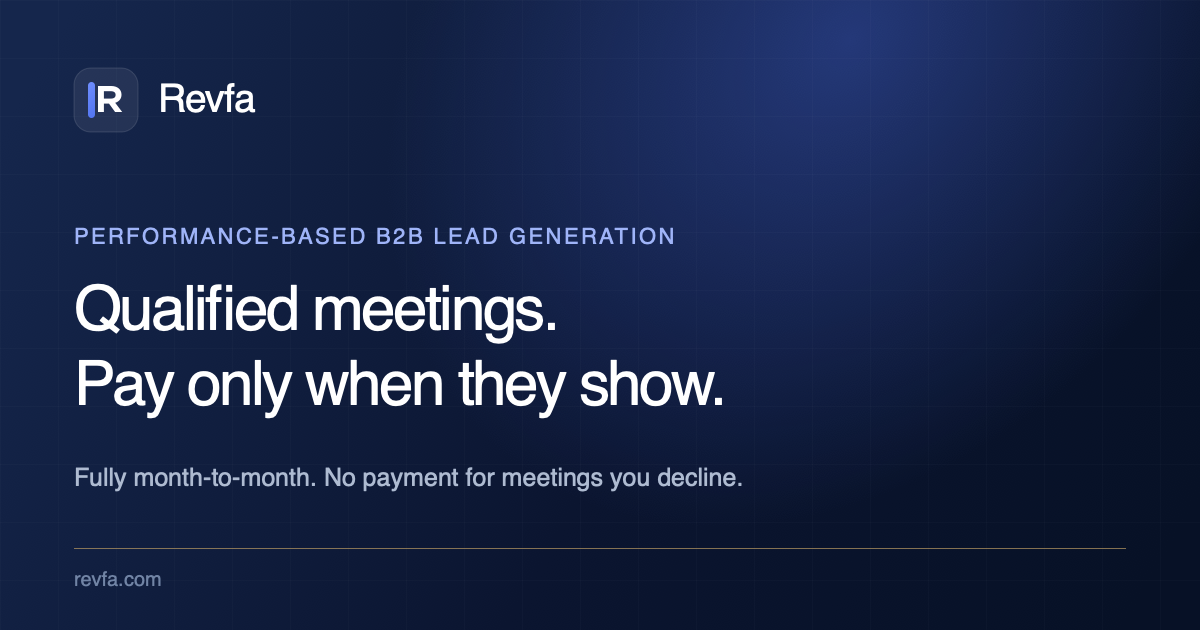
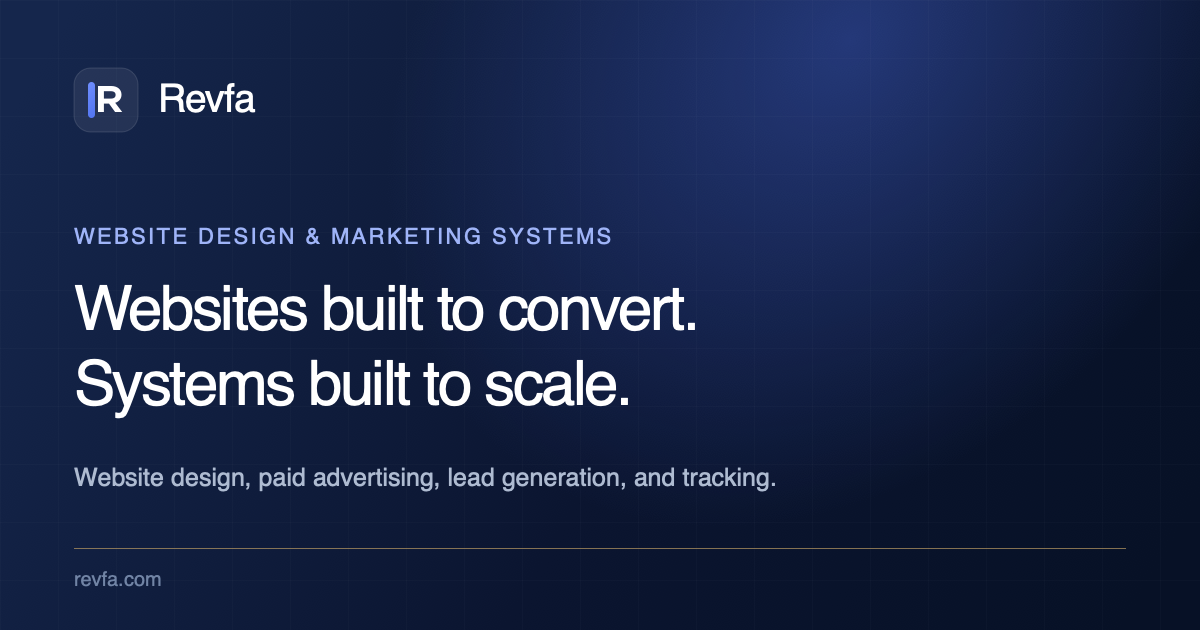
Add files via upload

diff --git a/index.html b/index.html
@@ -4,8 +4,8 @@
     <meta charset="UTF-8">
     <meta name="viewport" content="width=device-width, initial-scale=1.0">
 
-    <title>Revfa | Performance-Based B2B Lead Generation</title>
-    <meta name="description" content="Revfa books qualified B2B meetings on a performance basis. You only pay for meetings that show, with no long-term contract and full month-to-month flexibility.">
+    <title>Revfa | Website Design &amp; Marketing Systems</title>
+    <meta name="description" content="Revfa designs conversion-focused websites and marketing systems that combine paid advertising, lead generation, conversion funnels, follow-up, and tracking.">
     <meta name="author" content="Revfa">
     <meta name="robots" content="index, follow, max-image-preview:large, max-snippet:-1, max-video-preview:-1">
     <meta name="googlebot" content="index, follow, max-image-preview:large, max-snippet:-1, max-video-preview:-1">
@@ -22,8 +22,8 @@
     <link rel="manifest" href="/site.webmanifest">
 
     <!-- Open Graph -->
-    <meta property="og:title" content="Revfa | Performance-Based B2B Lead Generation">
-    <meta property="og:description" content="Only pay for qualified B2B meetings that show. No long-term contract, with full month-to-month flexibility.">
+    <meta property="og:title" content="Revfa | Website Design &amp; Marketing Systems">
+    <meta property="og:description" content="Conversion-focused websites supported by paid advertising, lead generation, funnels, follow-up, and performance tracking.">
     <meta property="og:type" content="website">
     <meta property="og:url" content="https://revfa.com/">
     <meta property="og:site_name" content="Revfa">
@@ -33,14 +33,14 @@
     <meta property="og:image:type" content="image/png">
     <meta property="og:image:width" content="1200">
     <meta property="og:image:height" content="630">
-    <meta property="og:image:alt" content="Revfa performance-based B2B lead generation">
+    <meta property="og:image:alt" content="Revfa website design, paid advertising, and lead generation systems">
 
     <!-- X / Twitter -->
     <meta name="twitter:card" content="summary_large_image">
-    <meta name="twitter:title" content="Revfa | Performance-Based B2B Lead Generation">
-    <meta name="twitter:description" content="Only pay for qualified B2B meetings that show. No long-term contract, with full month-to-month flexibility.">
+    <meta name="twitter:title" content="Revfa | Website Design &amp; Marketing Systems">
+    <meta name="twitter:description" content="Conversion-focused websites supported by paid advertising, lead generation, funnels, follow-up, and performance tracking.">
     <meta name="twitter:image" content="https://revfa.com/og-image.png">
-    <meta name="twitter:image:alt" content="Revfa performance-based B2B lead generation">
+    <meta name="twitter:image:alt" content="Revfa website design, paid advertising, and lead generation systems">
 
     <!-- Schema.org structured data -->
     <script type="application/ld+json">
@@ -72,7 +72,7 @@
           "@id": "https://revfa.com/#website",
           "url": "https://revfa.com/",
           "name": "Revfa",
-          "description": "Performance-based B2B lead generation for qualified, shown meetings.",
+          "description": "Website design and marketing systems spanning paid advertising, lead generation, funnels, and performance tracking.",
           "publisher": { "@id": "https://revfa.com/#organization" },
           "inLanguage": "en"
         },
@@ -80,8 +80,8 @@
           "@type": "WebPage",
           "@id": "https://revfa.com/#webpage",
           "url": "https://revfa.com/",
-          "name": "Revfa | Performance-Based B2B Lead Generation",
-          "description": "Revfa books qualified B2B meetings on a performance basis. You only pay for meetings that show.",
+          "name": "Revfa | Website Design & Marketing Systems",
+          "description": "Revfa designs conversion-focused websites and marketing systems that combine paid advertising, lead generation, conversion funnels, follow-up, and tracking.",
           "isPartOf": { "@id": "https://revfa.com/#website" },
           "about": { "@id": "https://revfa.com/#service" },
           "primaryImageOfPage": {
@@ -95,14 +95,14 @@
         {
           "@type": "Service",
           "@id": "https://revfa.com/#service",
-          "name": "Performance-Based B2B Lead Generation",
-          "serviceType": "B2B lead generation and appointment setting",
-          "description": "Qualified B2B meetings delivered on a performance basis, with payment tied to meetings that show.",
+          "name": "Website Design & Marketing Systems",
+          "serviceType": "Website design, paid advertising, lead generation, conversion funnels, and marketing strategy",
+          "description": "Conversion-focused websites paired with paid advertising, lead generation campaigns, landing pages, follow-up systems, analytics, and ongoing optimization.",
           "provider": { "@id": "https://revfa.com/#organization" },
           "areaServed": "Worldwide",
           "audience": {
             "@type": "BusinessAudience",
-            "audienceType": "B2B companies over $250K in annual revenue"
+            "audienceType": "Growth-focused businesses seeking website design, paid advertising, and lead generation"
           },
           "offers": {
             "@type": "Offer",
@@ -116,50 +116,50 @@
           "mainEntity": [
             {
               "@type": "Question",
-              "name": "How do you define a qualified meeting?",
+              "name": "What does Revfa build?",
               "acceptedAnswer": {
                 "@type": "Answer",
-                "text": "A meeting where the attendee matches your pre-agreed ICP criteria, including title, company size, and industry, and attends the scheduled call. Qualification is defined together before launch."
+                "text": "Revfa creates conversion-focused websites and the marketing systems that drive people to them. That can include positioning, design, development, paid advertising, lead generation campaigns, landing pages, follow-up, analytics, and optimization."
               }
             },
             {
               "@type": "Question",
-              "name": "What if the leads do not match my criteria?",
+              "name": "What is a marketing system?",
               "acceptedAnswer": {
                 "@type": "Answer",
-                "text": "You do not pay. Qualification criteria are agreed upon upfront, and there is no charge if a meeting does not meet those standards."
+                "text": "It is a coordinated approach to attracting and converting customers. Revfa connects paid advertising, lead generation, landing pages, forms, follow-up, and tracking so every part supports the same growth objective."
               }
             },
             {
               "@type": "Question",
-              "name": "How quickly can I expect results?",
+              "name": "How long does a project take?",
               "acceptedAnswer": {
                 "@type": "Answer",
-                "text": "Most clients see their first qualified meetings within 2 to 3 weeks of launch."
+                "text": "Timing depends on the site's size, content readiness, campaign scope, integrations, and feedback cycles. After discovery, Revfa defines the milestones and launch plan before work begins."
               }
             },
             {
               "@type": "Question",
-              "name": "What industries do you work with?",
+              "name": "Which platforms do you work with?",
               "acceptedAnswer": {
                 "@type": "Answer",
-                "text": "Revfa works with B2B companies offering high-ticket services or software, typically with deal sizes of $5K or more."
+                "text": "Revfa recommends the website platform, advertising channels, and marketing tools that best fit your goals, audience, team, and budget rather than forcing every business into the same stack."
               }
             },
             {
               "@type": "Question",
-              "name": "Is there a long-term contract?",
+              "name": "Do you include SEO and analytics?",
               "acceptedAnswer": {
                 "@type": "Answer",
-                "text": "No. Engagements are month-to-month, with no long-term contractual obligation."
+                "text": "Projects can include technical and on-page SEO foundations, metadata, structured data, analytics, campaign tracking, and conversion measurement. Ongoing SEO or campaign management can be scoped separately."
               }
             },
             {
               "@type": "Question",
-              "name": "What makes Revfa different?",
+              "name": "What happens after launch?",
               "acceptedAnswer": {
                 "@type": "Answer",
-                "text": "Revfa only profits when qualified meetings happen, aligning its incentives with the client's results."
+                "text": "Revfa can continue managing paid advertising, lead generation, testing, reporting, website optimization, and system improvements based on the ongoing scope your business needs."
               }
             }
           ]
@@ -1892,7 +1892,7 @@
     <nav class="navbar" aria-label="Main navigation">
         <div class="container nav-container">
             <a href="#" class="logo" aria-label="Revfa Home">Revfa</a>
-            <a href="#book-call" class="nav-cta">Book a Discovery Call</a>
+            <a href="#book-call" class="nav-cta">Plan Your Website</a>
         </div>
     </nav>
 
@@ -1900,11 +1900,11 @@
     <header class="hero">
         <div class="hero-bg"></div>
         <div class="container">
-            <div class="hero-badge">For B2B Companies Over $250K in Annual Revenue</div>
-            <h1>Only Pay Per Qualified, Shown B2B Meeting</h1>
-            <p class="hero-h2">100% Performance-Based Lead Generation</p>
-            <p class="hero-sub">If you decide not to take a meeting for any reason, you don't pay. No retainers, no commitments. Fully month-to-month.</p>
-            <a href="#book-call" class="btn btn-primary">Book a Discovery Call</a>
+            <div class="hero-badge">Website Design, Paid Advertising &amp; Lead Generation</div>
+            <h1>Websites Built to Convert. Marketing Built to Grow.</h1>
+            <p class="hero-h2">Website Design &amp; Marketing Systems</p>
+            <p class="hero-sub">We combine conversion-focused websites with paid advertising, lead generation, funnels, follow-up, and tracking to create a complete system for growth.</p>
+            <a href="#book-call" class="btn btn-primary">Plan Your Growth System</a>
         </div>
     </header>
 
@@ -1913,22 +1913,22 @@
     <!-- Problem Section -->
     <section class="section problem-section" aria-labelledby="problem-heading">
         <div class="container">
-            <h2 id="problem-heading">The Problem with Traditional Lead Gen Agencies</h2>
+            <h2 id="problem-heading">Your Website Should Do More Than Look Good</h2>
             <div class="problem-grid">
                 <div class="problem-card">
-                    <div class="problem-icon">$</div>
-                    <h3>Upfront Retainers, No Guarantees</h3>
-                    <p>Most agencies charge $3K to $10K per month before delivering a single meeting. You carry all the risk.</p>
+                    <div class="problem-icon">01</div>
+                    <h3>Design Without Direction</h3>
+                    <p>A polished site still underperforms when the offer is unclear, the journey is confusing, and every page competes for attention instead of guiding action.</p>
                 </div>
                 <div class="problem-card">
-                    <div class="problem-icon">?</div>
-                    <h3>Low-Quality Pipeline</h3>
-                    <p>Leads that don't match your ICP, prospects who never respond, and meetings that never convert.</p>
+                    <div class="problem-icon">02</div>
+                    <h3>Traffic Without a System</h3>
+                    <p>Paid ads and lead generation waste budget when campaigns, landing pages, follow-up, and sales activity are not working toward the same objective.</p>
                 </div>
                 <div class="problem-card">
-                    <div class="problem-icon">0</div>
-                    <h3>No Accountability</h3>
-                    <p>When results fall short, the blame shifts to your offer or your market. The retainer stays the same.</p>
+                    <div class="problem-icon">03</div>
+                    <h3>Growth Without Visibility</h3>
+                    <p>Without clean campaign tracking and meaningful conversion points, it is difficult to know what is working, where prospects drop off, or what to improve next.</p>
                 </div>
             </div>
         </div>
@@ -1936,53 +1936,53 @@
 
     <hr class="section-divider">
 
-    <!-- Risk Reversal Section -->
+    <!-- Connected System Section -->
     <section class="section risk-section" aria-labelledby="risk-heading">
         <div class="container">
             <div class="risk-box">
-                <h2 id="risk-heading">Zero-Risk Guarantee</h2>
-                <p class="risk-lead">We structured this model to eliminate risk on your side entirely.</p>
+                <h2 id="risk-heading">One Connected Growth System</h2>
+                <p class="risk-lead">Revfa connects the website, the campaigns, and the conversion process around one clear growth objective.</p>
                 <ul class="risk-list">
-                    <li><strong>Month-to-month engagement.</strong> No long-term contracts. Cancel anytime.</li>
-                    <li><strong>No payment for no-shows.</strong> Prospect doesn't attend? You owe nothing.</li>
-                    <li><strong>No payment for unqualified leads.</strong> If they don't match your ICP criteria, it doesn't count.</li>
-                    <li><strong>Full visibility.</strong> See every message, every reply, and every booked meeting in real time.</li>
+                    <li><strong>Conversion-first website.</strong> Clear positioning, intentional user journeys, responsive design, and functional development built around action.</li>
+                    <li><strong>Paid advertising.</strong> Campaign strategy, audience targeting, creative direction, and landing pages designed to turn ad spend into qualified opportunities.</li>
+                    <li><strong>Lead generation.</strong> Focused offers, capture flows, follow-up, and sales handoffs that move prospects from first click to conversation.</li>
+                    <li><strong>Tracking and optimization.</strong> Analytics, campaign measurement, and ongoing testing that show what works and where to improve.</li>
                 </ul>
-                <p class="risk-bottom">If we don't deliver, we don't get paid. It's that straightforward.</p>
+                <p class="risk-bottom">Not just a website. A complete marketing system designed to attract, capture, and convert demand.</p>
             </div>
         </div>
     </section>
 
     <hr class="section-divider">
 
-    <!-- Objection Handling Section -->
+    <!-- FAQ Section -->
     <section class="section faq-section" aria-labelledby="faq-heading">
         <div class="container">
             <h2 id="faq-heading">Questions We Hear Often</h2>
             <div class="faq-grid">
                 <div class="faq-item">
-                    <h3>How do you define a "qualified meeting"?</h3>
-                    <p>A meeting where the attendee matches your pre-agreed ICP criteria (title, company size, industry) and actually shows up to the scheduled call. We define qualification together before launch.</p>
+                    <h3>What does Revfa build?</h3>
+                    <p>Revfa creates conversion-focused websites and the marketing systems that drive people to them. That can include positioning, design, development, paid advertising, lead generation campaigns, landing pages, follow-up, analytics, and optimization.</p>
                 </div>
                 <div class="faq-item">
-                    <h3>What if the leads don't match my criteria?</h3>
-                    <p>You don't pay. Qualification criteria are agreed upon upfront. If a meeting doesn't meet those standards, there is no charge.</p>
+                    <h3>What is a marketing system?</h3>
+                    <p>It is a coordinated approach to attracting and converting customers. Revfa connects paid advertising, lead generation, landing pages, forms, follow-up, and tracking so every part supports the same growth objective.</p>
                 </div>
                 <div class="faq-item">
-                    <h3>How quickly can I expect results?</h3>
-                    <p>Most clients see their first qualified meetings within 2 to 3 weeks of launch. Because our revenue depends on results, we move quickly.</p>
+                    <h3>How long does a project take?</h3>
+                    <p>Timing depends on the site's size, content readiness, campaign scope, integrations, and feedback cycles. After discovery, Revfa defines the milestones and launch plan before work begins.</p>
                 </div>
                 <div class="faq-item">
-                    <h3>What industries do you work with?</h3>
-                    <p>B2B companies with high-ticket services or software ($5K+ deal sizes). If you sell to other businesses, we can likely help.</p>
+                    <h3>Which platforms do you work with?</h3>
+                    <p>Revfa recommends the website platform, advertising channels, and marketing tools that best fit your goals, audience, team, and budget rather than forcing every business into the same stack.</p>
                 </div>
                 <div class="faq-item">
-                    <h3>Is there a long-term contract?</h3>
-                    <p>No. Engagements are month-to-month. We earn your continued business through consistent delivery, not contractual obligation.</p>
+                    <h3>Do you include SEO and analytics?</h3>
+                    <p>Projects can include technical and on-page SEO foundations, metadata, structured data, analytics, campaign tracking, and conversion measurement. Ongoing SEO or campaign management can be scoped separately.</p>
                 </div>
                 <div class="faq-item">
-                    <h3>What makes Revfa different?</h3>
-                    <p>Incentive alignment. Most agencies profit regardless of your results. We only profit when qualified meetings happen. That drives how we build campaigns and how aggressively we optimize them.</p>
+                    <h3>What happens after launch?</h3>
+                    <p>Revfa can continue managing paid advertising, lead generation, testing, reporting, website optimization, and system improvements based on the ongoing scope your business needs.</p>
                 </div>
             </div>
         </div>
@@ -1991,8 +1991,8 @@
     <!-- CTA + Calendar Section -->
     <section class="section cta-section" id="book-call" aria-labelledby="cta-heading">
         <div class="container">
-            <h2 id="cta-heading">Book a Discovery Call</h2>
-            <p class="section-sub">30 minutes. We'll discuss your ICP, your goals, and whether this model is a fit. No commitment required.</p>
+            <h2 id="cta-heading">Plan Your Website &amp; Growth System</h2>
+            <p class="section-sub">Book a 30-minute discovery call to discuss your website, paid advertising, lead generation goals, and the right next step. No commitment required.</p>
             <div class="calendar-embed">
                 <!-- Cal inline embed code begins -->
                 <div style="width:100%;height:100%;overflow:scroll" id="my-cal-inline-intro"></div>
@@ -2014,7 +2014,7 @@
         <div class="container footer-container">
             <div class="footer-brand">
                 <span class="logo">Revfa</span>
-                <p>Performance-based B2B lead generation.</p>
+                <p>Website design, paid advertising, and lead generation systems.</p>
             </div>
             <div class="footer-contact">
                 <p><a href="mailto:nitish@revfa.com">nitish@revfa.com</a></p>
